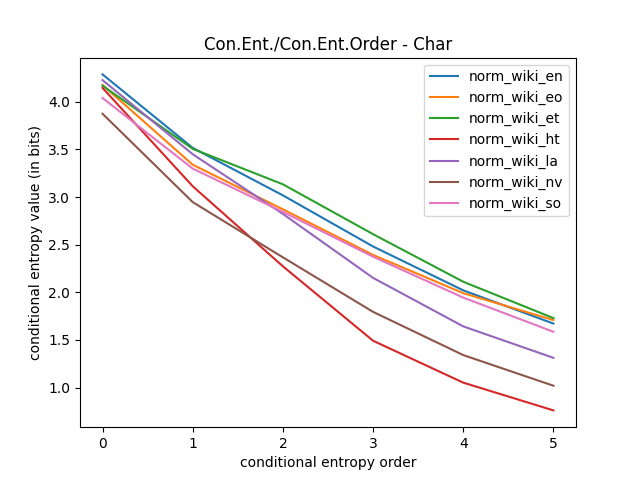
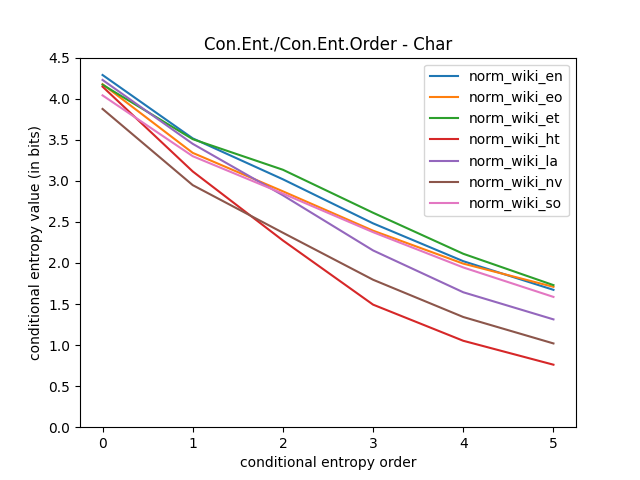
finish (update plots, provide answers and conclusions in README.md)

diff --git a/main.py b/main.py
@@ -122,6 +122,7 @@ def computeEntropies(filepaths, png_name, do_char: bool = True, do_word: bool = 
         plt.title("Con.Ent./Con.Ent.Order - Char")
         plt.xlabel("conditional entropy order")
         plt.ylabel("conditional entropy value (in bits)")
+        plt.yticks(np.arange(0.0, 5.0, 0.5))  # note - hardcoded after seeing values, to make comparison easier
         plt.savefig(png_name + "-char.png")
         plt.close()
         print("done\n")
@@ -139,6 +140,7 @@ def computeEntropies(filepaths, png_name, do_char: bool = True, do_word: bool = 
         plt.title("Con.Ent./Con.Ent.Order - Word")
         plt.xlabel("conditional entropy order")
         plt.ylabel("conditional entropy value (in bits)")
+        plt.yticks(np.arange(0.0, 20.0, 2.5))  # note - hardcoded after seeing values, to make comparison easier
         plt.savefig(png_name + "-word.png")
         plt.close()
         print("done\n")

diff --git a/README.md b/README.md
@@ -35,6 +35,93 @@ For simplicity, I'm going to use the following references as a convention:
 - graph of character conditional entropy = **Char graph**
 - graph of words conditional entropy = **Word graph**
 
-## Char graph
+### Char graph
 Undoubtedly, the most repulsive option here is the sample4. It's not as stretched and curves exactly the other way we
-want in a natural language. The next one is sample0, which seems to be 
+want in a natural language.
+
+The next one is sample0, which seems to be too curved and has almost no change from order 3
+to 5.
+
+I'm also unsure about sample5, as it doesn't drop that much over order 1 to 3, compared to order 0 to 1, forming a
+"bump", but such a bump (though smaller) can be observed for norm_wiki-et.
+
+###Summing up the Char plot:
+
+- **potential good candidates** - `sample1`, `sample3`
+- **still a chance** - `sample2`, `sample5`
+- **opposition** - `sample0`, `sample4`
+
+### Word graph
+At the first glance, we can remove `sample5` from the candidates for natural languages. Instead of a gradual decrease in
+conditional entropy, it drops to 0 after taking into account just a single prior word. I suppose what happens here is,
+the words are so much random, such that just taking into account one prior word makes all the conditional entropy 0, as
+there's only one word for every one prior word to occur after it - i.e., there is only a single word that occurs after a
+any word in this text sample.
+
+The next "weirdos" of the plot are `sample0` and `sample2`. Instead of a gradually slowing decrease, their entropy drops
+only slightly over 0-1 and 3-5, while over 1-3 it's relatively much steeper.
+
+Also, `sample4` is the only to drop almost as steep as radical `sample5`, but it keeps the exponential decay patter.
+It's just much "violent" and faster-convergent than the other samples.
+
+###Summing up the Word plot:
+
+- **potential good candidates** - `sample1`, `sample3`
+- **unusual, but interesting** - `sample4`
+- **rejected** - `sample0`, `sample2`, `sample5`
+
+### Char and Word combined - the final decisions
+
+- `sample0` - not a natural language (Word test)
+- `sample1` - natural language (both tests passed)
+- `sample2` - not a natural language (Word test)
+- `sample3` - natural language (both tests passed)
+- `sample4` - still unsure; **see dilemma below**
+- `sample5` - not a natural language (Word test)
+
+### The interesting case of `sample4`
+
+Even though at first I was going to reject this sample based on completely different behavior during Char test and a
+suspicious result of Word test, the more I thought about it, the more in doubt I was. On one hand, it seems to be
+very "messy". Compared to the languages we're used to, it may seem simply random. It contains words of very varying
+lengths - it's possible to find a "word" consisting of a single character, as well as a *really* long "noodle" such as
+
+`gaamd2oaoiiotobahontscadsrnetlsiplatueaptet`
+
+On the other hand, even though its entropy dropped and converged really fast, it's not as in case of `sample5`, which
+is without any doubt random. Compare the entropy values of Word test we get for:
+
+`sample5`:
+```
+current file: text-files/sample5.txt
+[16.50952745314629, 0.0, 0.0, 0.0, 0.0, 0.0]
+```
+
+and `sample4`:
+```
+current file: text-files/sample4.txt
+[17.129660116882004, 3.44426436014238, 0.23407639869387514, 0.003227431119931433, 7.60889828044334e-06, 0.0]
+
+```
+
+The tiny differences in order 2, 3 and 4 between these two are fascinating. Why? In case of `sample5`, the entropy
+became 0 right away, whereas in `sample4` it was still positive all the way up to order 5.
+
+On top of that, the initial order 0 entropy of `sample4` is higher compared to other natural-language samples and norms,
+which indicates a greater variety and frequency of words.
+
+Honestly, in my opinion it may mean two things - either `sample4` is in fact random, with repeating words consisting of
+just a few characters making up the marginal remaining entropy, OR it **is** a natural language, which cannot be
+represented well using the available characters (think of hanzi - logograms developed for writing Chinese), containing
+lots of meaning in just a few words.
+
+Representing all (possibly huge) amount of logograms using the available characters
+would lead to creation of (possibly long and repulsing and seemingly gibberish or random) words, making the Char test
+inapplicable.
+
+On the other hand, using just a few logograms (words) could make up a whole sentence, which using a language such as
+English would require 10 and more words.
+
+The **final point** regards `sample4` is - I'd say it *may be* a natural language, in the form I described above.
+I'm almost sure excluding it would be a safer option, but the idea is so interesting I'm willing to take the risk. I
+hope for a good talk regards that.
